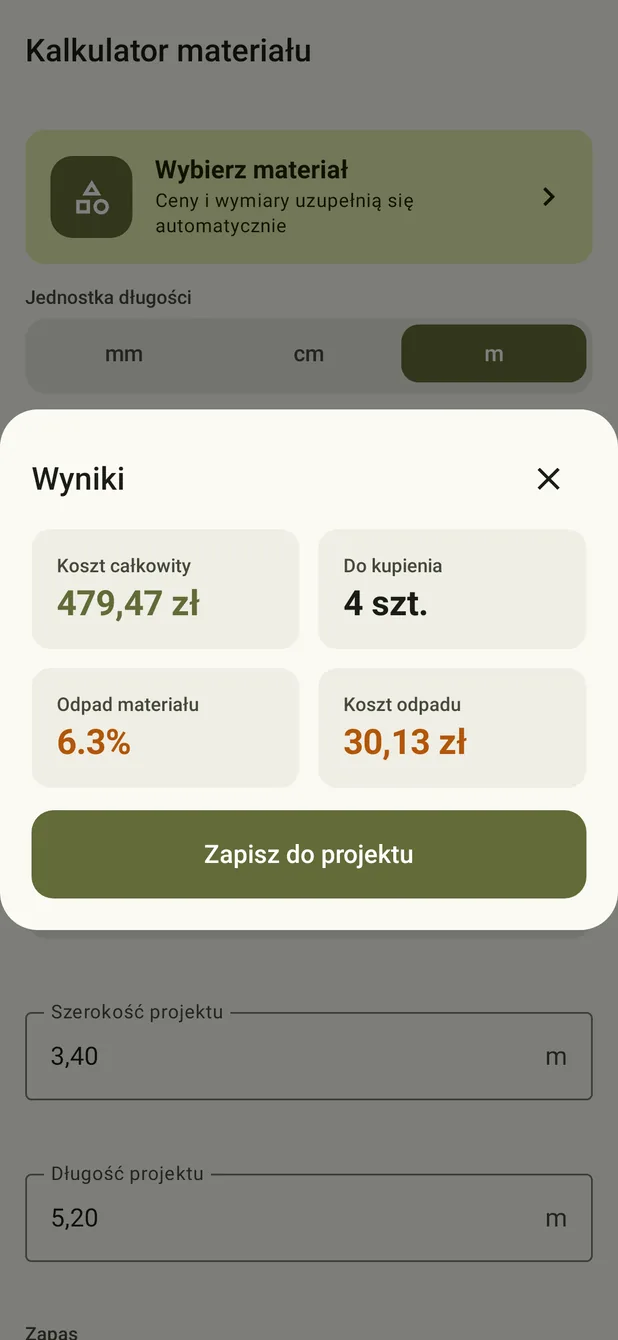
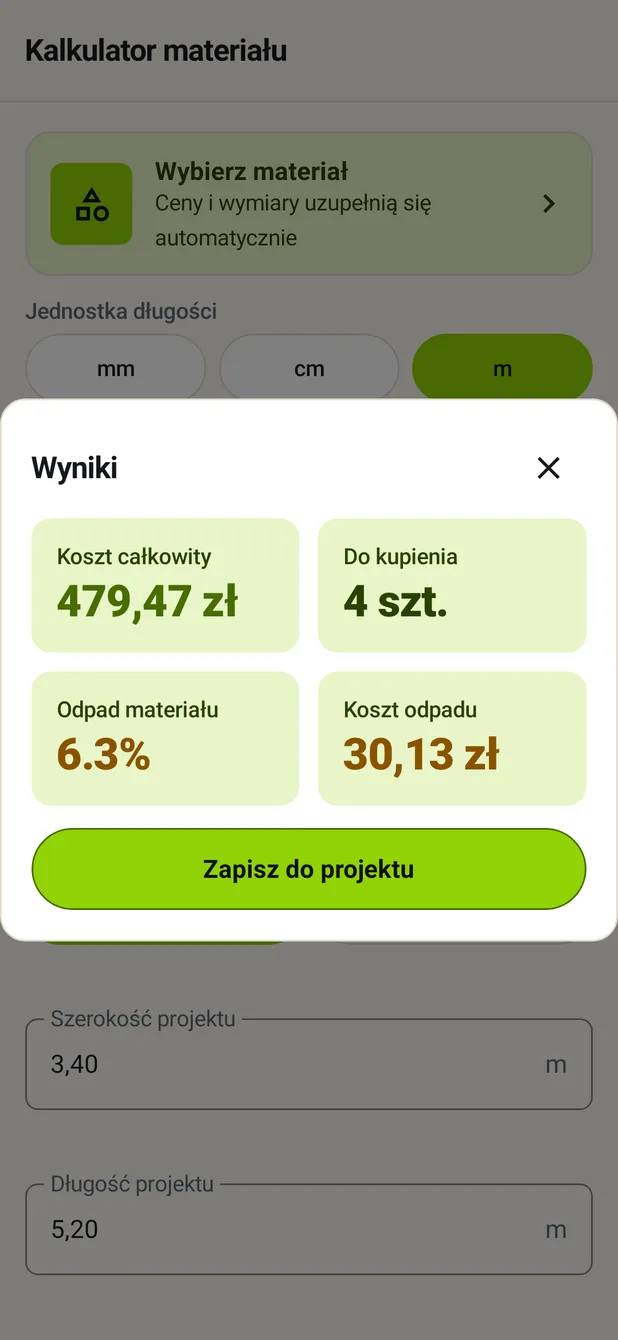
Session 50: the site's screenshots show the app the site is made of
The three PNGs on /aplikacja/ were rendered from an app on Material 3's Olive
Green, while the site has been on the lime and cream since the rebranding. The
app repo now carries this stylesheet's token block (3d-polednia/Materio, session
50), so they were re-recorded from it with the same Roborazzi test that produced
the previous ones: 618x1340, the size the phone mockup expects.

docs/DESIGN_SYSTEM.md says which way the copying runs — the colour, the size,
the radius and the duration are decided here and the app follows — and names the
contrast check that stands on both sides.

The AAB has not been released, so the store still ships the old look. That is
point 2 of "Do zrobienia w konsolach" and it now says so.

diff --git a/docs/MASTER_PLAN.md b/docs/MASTER_PLAN.md
@@ -88,6 +88,7 @@ najpierw to, co sprawia, że LiczMat Pro da się komuś sprzedać i odebrać.
 | 47 | Błąd zaokrąglenia w silnikach Androida (repo aplikacji) | **Zrobione** — 2026-08-27, commit `b231bab`. Czeka na wydanie AAB (właściciel) |
 | 48 | Prawda w dokumentacji i lista rzeczy w konsolach | **Zrobione** — 2026-08-27 |
 | 49 | Panel admina w przeglądarce — plan po e-mailu, bez terminala | **Zrobione** — 2026-08-27. Czeka na `firebase deploy --only functions` i jedno nadanie uprawnienia (właściciel, `docs/ADMIN.md`) |
+| 50 | Aplikacja wygląda tak samo jak strona (repo aplikacji) | **Zrobione** — 2026-08-27. Czeka na wydanie AAB (właściciel) |
 
 Sesja 49 doszła 2026-08-21 na prośbę właściciela: docelowo plan ma się przestawiać
 kliknięciem przy adresie e-mail, w przeglądarce, bez terminala. Wymaga serwera, który
@@ -100,6 +101,18 @@ Zrobione 2026-08-27: zakładka **Admin** na `/app/` (szósta, tylko dla konta z 
 funkcja `adminPlan` w `functions/` obok webhooka, i `pro-admin.mjs admin <adres>` jako jedyna
 rzecz, która zostaje w terminalu — bo panel otwiera się na uprawnienie, a uprawnienie zapisze
 tylko coś z prawami administratora. Klikanie opisuje [`ADMIN.md`](ADMIN.md).
+
+Sesja 50 doszła 2026-08-27 na prośbę właściciela: „aplikacja ma wyglądać identycznie jak
+strona". Zrobione w repo aplikacji: tokeny ze `assets/styles.css` przepisane do
+`core/designsystem/theme/` (kolor w obu motywach, typografia, skala odstępów, promienie,
+wysokości kontrolek), wspólne komponenty ustawione na wzorce ze strony (karta, przycisk,
+pole, chip, pasek górny i dolny, kafelek ikony, pole wyniku) i tło okna, żeby zimny start nie
+błyskał białym. Aplikacja stała na oliwce Material 3 (`#626B38`) od początku, a strona jest na
+limonce i kremie od rebrandingu 2026-08-12 — to jest ta różnica.
+
+Trzy zrzuty ekranu na `/aplikacja/` przerenderowane z nowej aplikacji tym samym testem
+Roborazzi, który zrobił poprzednie. **Do zamknięcia zostaje wydanie AAB** — dopóki go nie
+ma, strona pokazuje aplikację, której nikt jeszcze nie zainstaluje (punkt 2 listy niżej).
 
 Ustalenia właściciela z 2026-08-21, na których stoi ten plan: nazwa **języka** przy fladze
 (bez nazw krajów), nadawanie Pro **narzędziem po e-mailu**, „rozjechany na telefonie"
@@ -125,7 +138,7 @@ repozytorium — bo sesja nie ma klucza do żadnej z tych konsol i nie zakłada 
 | # | Co | Gdzie | Jak sprawdzone | Skutek, dopóki nie zrobione |
 |---|---|---|---|---|
 | 1 | `firebase deploy --only firestore` | Firebase CLI, z katalogu głównego repo `Materio` | Stan repo: `validClient()`, `validJob()`, `validQuote()` są w `config/firebase/firestore.rules` od Sesji 46. Wdrożenia nie da się odczytać bez klucza albo konta — **niesprawdzone na żywo** | **Klienci, zlecenia i wyceny nie jadą na telefon**, a „wyślij" w `/app/` kończy się `PERMISSION_DENIED`. Szczegóły niżej |
-| 2 | **Wydanie AAB — dopiero po punkcie 1** | Play Console | Zmierzone: w produkcji stoi **1.10.2 (`versionCode` 11002)**, a `main` ma trzy niewydane commity (Sesje 46 i 47) przy **tej samej** wersji | Poprawka zaokrąglenia z Sesji 47 nie dotarła do nikogo: telefon liczy inaczej niż serwis. Ekrany Pro też nie. **Trzeba podbić `versionCode`/`versionName`** — Play odrzuca powtórzony |
+| 2 | **Wydanie AAB — dopiero po punkcie 1** | Play Console | Zmierzone: w produkcji stoi **1.10.2 (`versionCode` 11002)**, a `main` ma niewydane commity (Sesje 46, 47 i 50) przy **tej samej** wersji | Poprawka zaokrąglenia z Sesji 47 nie dotarła do nikogo: telefon liczy inaczej niż serwis. Ekrany Pro też nie. Wygląd z Sesji 50 też nie — w sklepie stoi aplikacja w starej oliwce, a `/aplikacja/` na stronie pokazuje już nową. **Trzeba podbić `versionCode`/`versionName`** — Play odrzuca powtórzony |
 | 3 | **Opis w sklepie wysyła ludzi na martwą domenę** | Play Console → Główna karta sklepu, **11 języków** | Zmierzone 2026-08-27 na żywych stronach sklepu (`hl=pl,en,de,uk,cs` — w każdej **dwa** wystąpienia) | Opis mówi „kalkulatory działają też na materio-app.com" i „użyj »Nie pamiętam hasła« na materio-app.com". Ten host odpowiada **404**. Drugie zdanie kieruje kogoś, kto stracił dostęp do konta, pod adres, którego nie ma. Podmienić na `liczmat.com` |
 | 4 | Rotacja klucza `pracownik@materio-502513` | Google Cloud → IAM → Konta serwisowe | Stan z Sesji 37, niesprawdzalny stąd | Prywatny klucz RSA przeszedł przez transkrypt sesji 2026-08-26. **Najpierw nowy klucz i podmiana tam, gdzie służy do wysyłki na Play, dopiero potem kasowanie starego** |
 | 5 | Keystore i hasła w historii gita | repo `Materio` | **Zmierzone 2026-08-27:** `git ls-files` wymienia `materio-upload.jks` **i** `materio-keystore-creds.txt` — są śledzone **dziś**, nie tylko w historii. `.gitignore` ma `*.jks`, ale **nie ma** pliku z hasłami, a `.gitignore` i tak nie działa wstecz | Klucz upload i jego hasła leżą w repozytorium. Uwaga: przepis na wydanie w `CLAUDE.md` **czyta oba te pliki z korzenia repo**, więc `git rm --cached` bez zmiany przepisu zepsuje budowanie AAB. To jest decyzja właściciela, nie sesji |
